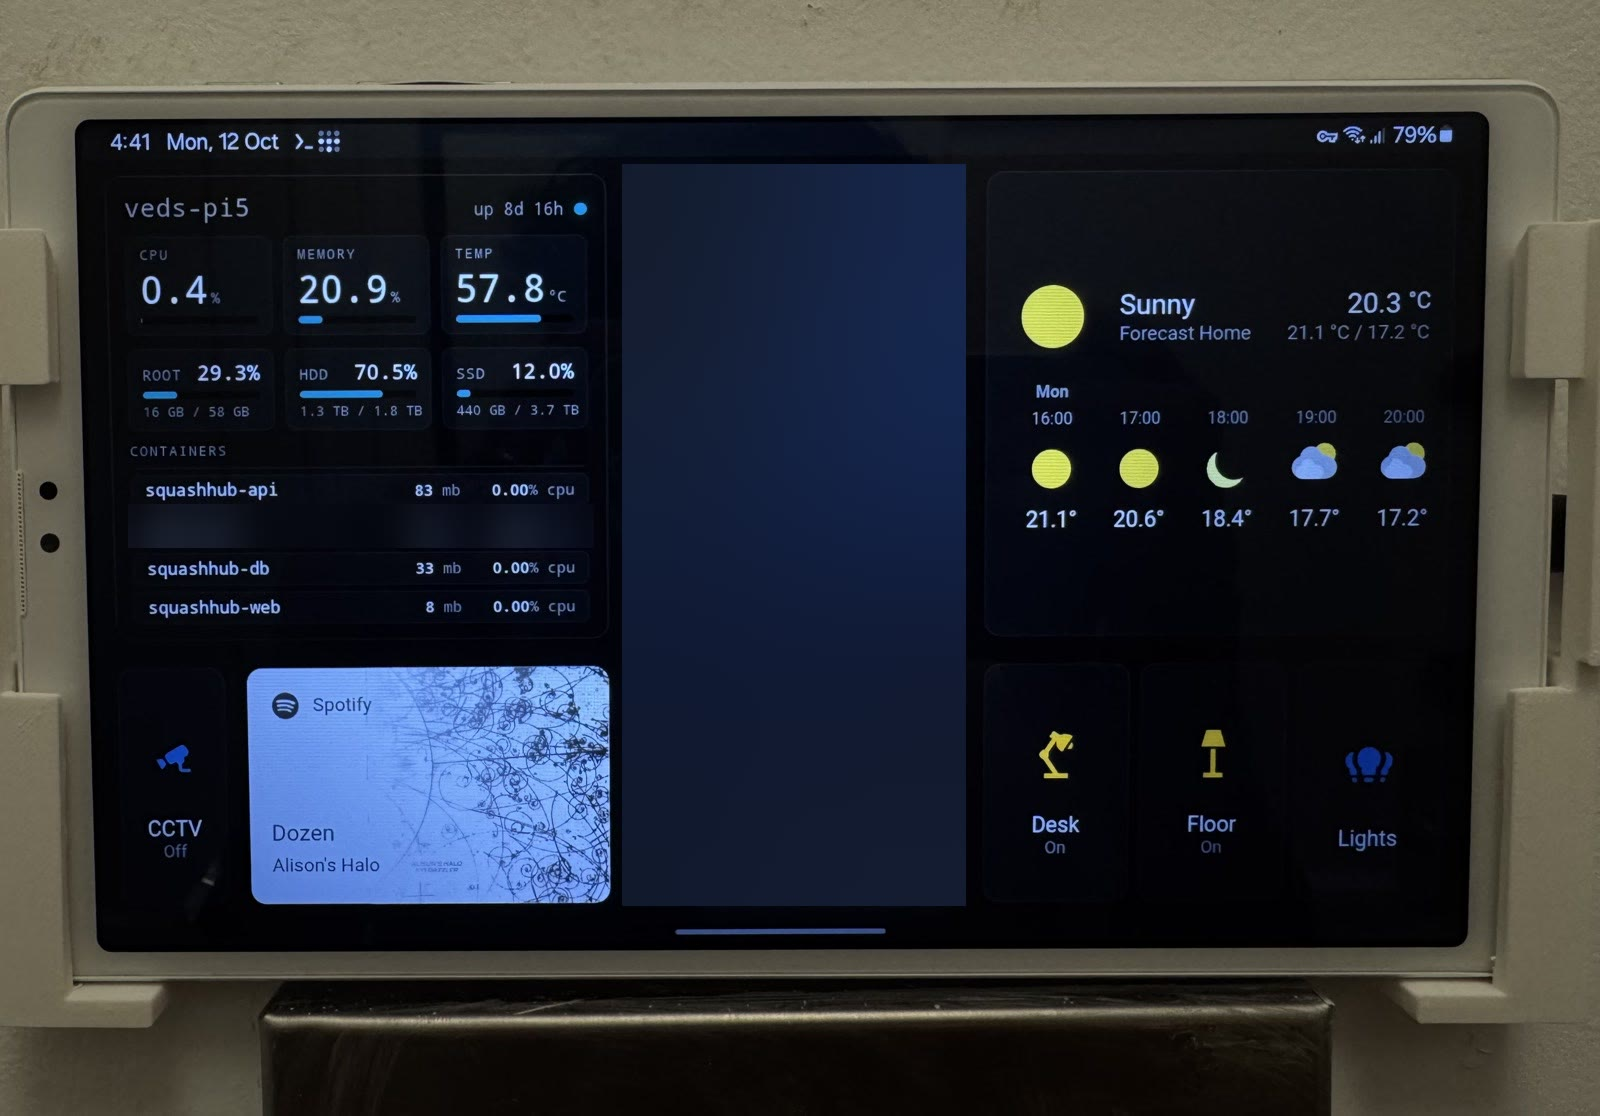
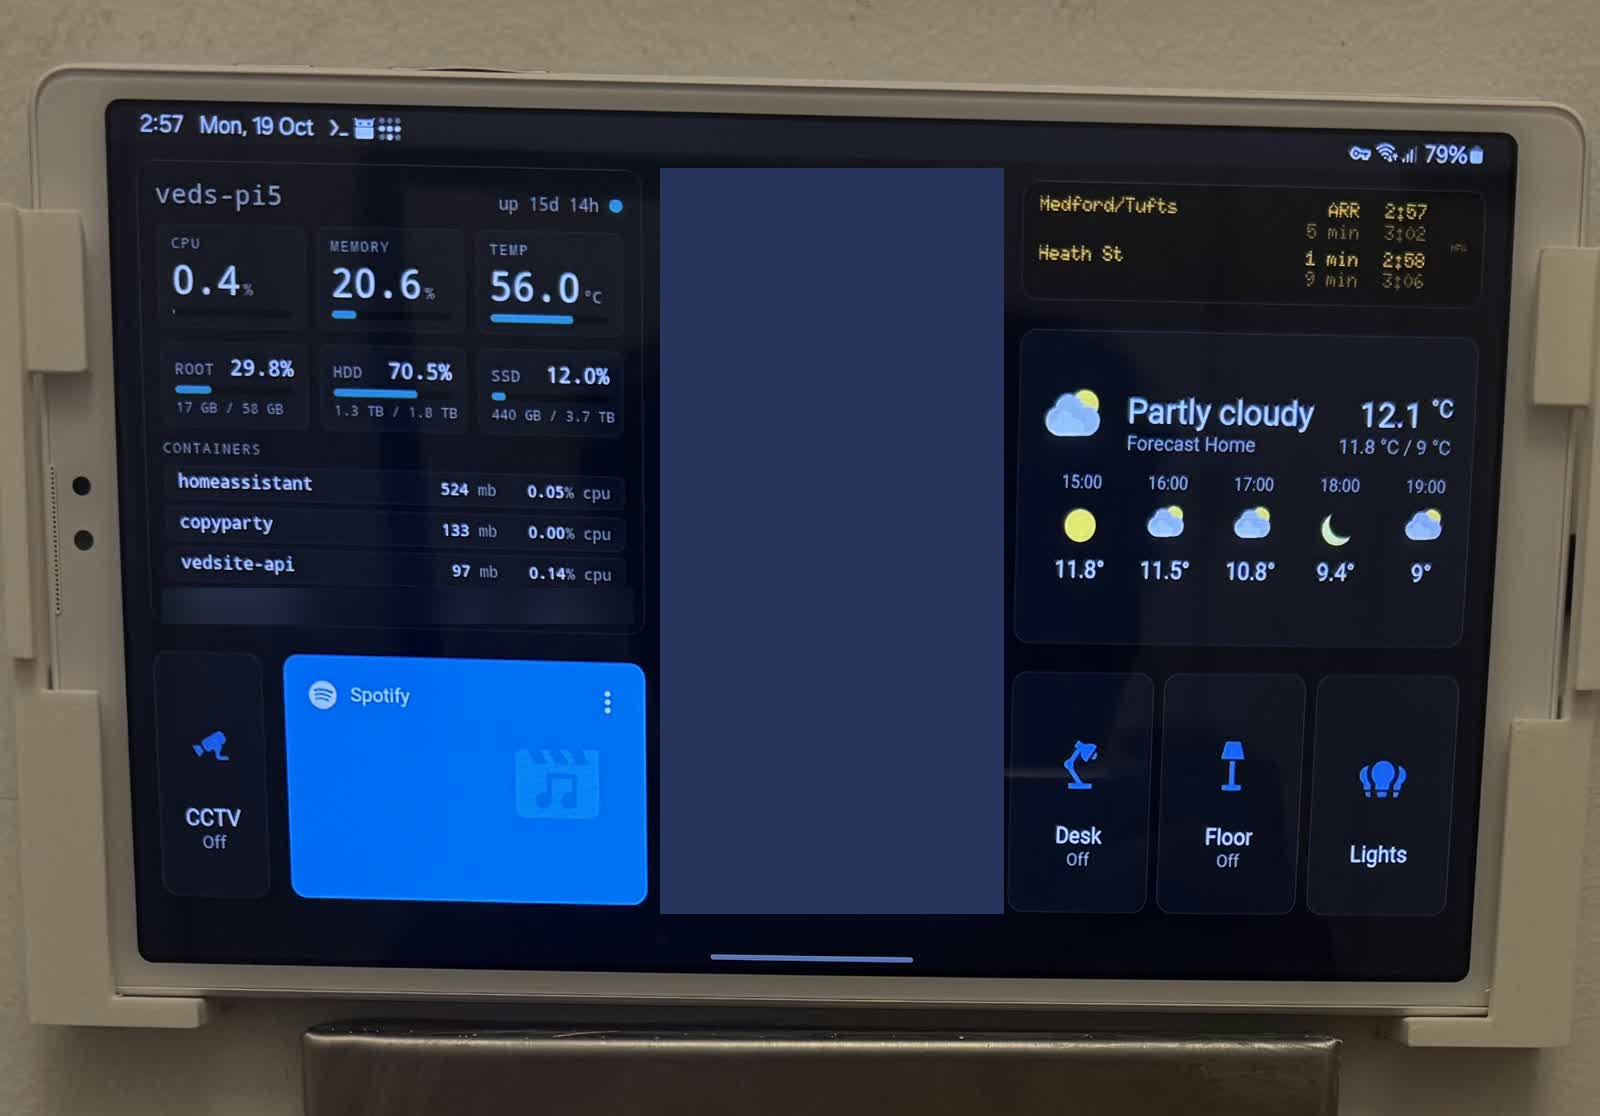
projects: 16:10 card thumbnails (aspect-ratio, cards size to content); wallmount: new 16:10 card thumbnail and close-up with the transit sign; sw cache v17

diff --git a/frontend/subpage/subpage.css b/frontend/subpage/subpage.css
@@ -388,7 +388,7 @@ a:not(.nav-shape):not(.home-btn):not(.back-btn):not(.resume-btn) {
 .card-image {
     align-items: center;
     display: flex;
-    height: 16 / 9;
+    aspect-ratio: 16 / 10;
     justify-content: center;
     overflow: hidden;
     border-radius: 8px 8px 0 0;
@@ -533,12 +533,19 @@ body:has(#cards) {
         width: 100%;
     }
 
+    /* Cards size to their content so the 16:10 thumbnail never gets squeezed. */
     & .card {
-        height: 260px;
+        height: auto;
     }
 
-    & .card-image {
-        height: 140px;
+    & .card>.card-content {
+        position: relative;
+        inset: auto;
+        margin: 1px;
+    }
+
+    & .card-info-wrapper {
+        min-height: 90px;
     }
 
     @media (max-width: 768px) {

diff --git a/sw.js b/sw.js
@@ -1,4 +1,4 @@
-const CACHE_NAME = 'vedsite-v16';
+const CACHE_NAME = 'vedsite-v17';
 
 const STATIC_ASSETS = [
   '/',
